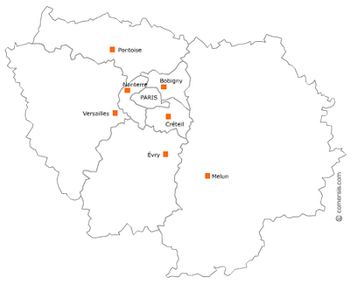
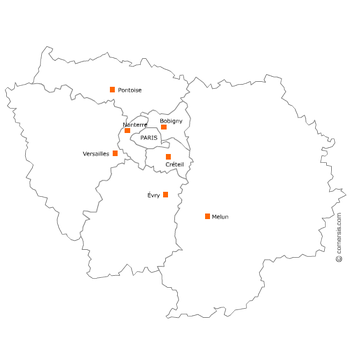
map section

diff --git a/sass/pages/_map.scss b/sass/pages/_map.scss
@@ -2,9 +2,10 @@
   display: flex;
   justify-content: center;
   position: relative;
+  height: 28rem;
 }
 
 #idf-map {
-  top: -20px;
+  top: -6rem;
   position: absolute;
 }
